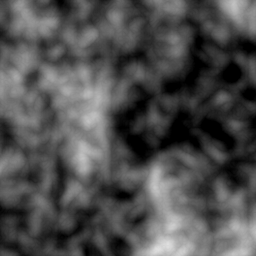
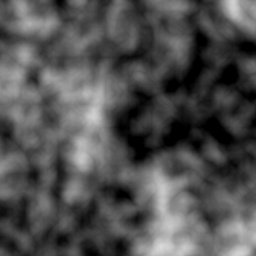
Start adding player and npc stuff

diff --git a/src/game/samake/game/debug/Debug.java b/src/game/samake/game/debug/Debug.java
@@ -64,8 +64,8 @@ public class Debug {
 		DynamicObject object = new DynamicObject();
 		object.setModel(ResourceLoader.load3DModel("sphere.fbx", false));
 		object.setCollissionModel(ResourceLoader.load3DModel("sphereHull.fbx", true));
-		object.getMaterial(0).setShininess(256.0f);
-		object.getMaterial(0).setReflectance(2.0f);
+		object.getMaterial(0).setShininess(128.0f);
+		object.getMaterial(0).setReflectance(1.5f);
 		object.getMaterial(0).setTexture(ResourceLoader.loadTexture("debug\\debug.png", true));
 		object.getMaterial(0).setNormalMap(ResourceLoader.loadTexture("debug\\debug_n.png", true));
 		object.getMaterial(0).setSpecularMap(ResourceLoader.loadTexture("debug\\debug_s.png", true));
@@ -80,8 +80,8 @@ public class Debug {
 		DynamicObject object = new DynamicObject();
 		object.setModel(ResourceLoader.load3DModel("box.fbx", false));
 		object.setCollissionModel(ResourceLoader.load3DModel("boxHull.fbx", true));
-		object.getMaterial(0).setShininess(32.0f);
-		object.getMaterial(0).setReflectance(1.0f);
+		object.getMaterial(0).setShininess(16.0f);
+		object.getMaterial(0).setReflectance(0.4f);
 		object.getMaterial(0).setTexture(ResourceLoader.loadTexture("debug\\debug.png", true));
 		object.getMaterial(0).setNormalMap(ResourceLoader.loadTexture("debug\\debug_n.png", true));
 		object.getMaterial(0).setSpecularMap(ResourceLoader.loadTexture("debug\\debug_s.png", true));
@@ -96,8 +96,8 @@ public class Debug {
 		DynamicObject object = new DynamicObject();
 		object.setModel(ResourceLoader.load3DModel("player.fbx", false));
 		object.setCollissionModel(ResourceLoader.load3DModel("playerHull.fbx", true));
-		object.getMaterial(0).setShininess(128.0f);
-		object.getMaterial(0).setReflectance(3.0f);
+		object.getMaterial(0).setShininess(32.0f);
+		object.getMaterial(0).setReflectance(1.0f);
 		object.getMaterial(0).setTexture(ResourceLoader.loadTexture("debug\\debug.png", true));
 		object.getMaterial(0).setNormalMap(ResourceLoader.loadTexture("debug\\debug_n.png", true));
 		object.getMaterial(0).setSpecularMap(ResourceLoader.loadTexture("debug\\debug_s.png", true));

diff --git a/src/engine/samake/engine/interfaces/IEntity.java b/src/engine/samake/engine/interfaces/IEntity.java
@@ -1,0 +1,33 @@
+package samake.engine.interfaces;
+
+import org.joml.Vector3f;
+
+import samake.engine.material.MaterialWorld;
+import samake.engine.models.Model;
+import samake.engine.physics.bodys.PhysicBody;
+
+public interface IEntity {
+	
+	public void update();
+	public Model getModel();
+	public void setModel(Model model);
+	public Model getCollissionModel();
+	public void setCollissionModel(Model collissionModel);
+	public Vector3f getPosition();
+	public void setPosition(Vector3f position);
+	public Vector3f getRotation();
+	public void setRotation(Vector3f rotation);
+	public float getScale();
+	public void setScale(float scale);
+	public PhysicBody getPhysicBody();
+	public void setPhysicBody(PhysicBody physicBody);
+	public boolean isUpdatedEntity();
+	public void setUpdatedEntity(boolean updatedEntity);
+	public Vector3f getUpdatePosition();
+	public void setUpdatePosition(Vector3f updatePosition);
+	public Vector3f getUpdateRotation();
+	public void setUpdateRotation(Vector3f updateRotation);
+	public MaterialWorld getMaterial();
+	public MaterialWorld getMaterial(int meshSlot);
+	public void destroy();
+}

diff --git a/src/game/samake/game/level/maps/TestMap01.java b/src/game/samake/game/level/maps/TestMap01.java
@@ -32,15 +32,15 @@ public class TestMap01 extends Level {
 		addLight(getEnvironment().getSky().getMoon());
 		
 		PerlinGenerator.setTurbolence(512.0f);
-		PerlinGenerator.setGain(0.45f);
-		PerlinGenerator.setLacunarity(7.5f);
-		PerlinGenerator.setOctaves(8);
+		PerlinGenerator.setGain(0.5f);
+		PerlinGenerator.setLacunarity(5.5f);
+		PerlinGenerator.setOctaves(4);
 		PerlinGenerator.setHeightModifier(128);
 		
 		Terrain terrain = new Terrain();
 		terrain.generateModel(new Vector3f(-512.0f, 0.0f, -512.0f), 256, 1024.0f, true, true);
-		terrain.getMaterial().setShininess(16.0f);
-		terrain.getMaterial().setReflectance(0.8f);
+		terrain.getMaterial().setShininess(8.0f);
+		terrain.getMaterial().setReflectance(0.35f);
 		terrain.getMaterial().setTexture(ResourceLoader.loadTexture("debug\\debug.png", true));
 		terrain.getMaterial().setNormalMap(ResourceLoader.loadTexture("debug\\debug_n.png", true));
 		terrain.getMaterial().setSpecularMap(ResourceLoader.loadTexture("debug\\debug_s.png", true));

diff --git a/src/engine/samake/engine/entity/Entity.java b/src/engine/samake/engine/entity/Entity.java
@@ -2,13 +2,14 @@ package samake.engine.entity;
 
 import org.joml.Vector3f;
 
+import samake.engine.interfaces.IEntity;
 import samake.engine.logging.Console;
 import samake.engine.logging.Console.LOGTYPE;
 import samake.engine.material.MaterialWorld;
 import samake.engine.models.Model;
 import samake.engine.physics.bodys.PhysicBody;
 
-public class Entity {
+public class Entity implements IEntity {
 
 	private Model model;
 	private Model collissionModel;

diff --git a/src/engine/samake/engine/entity/npc/NPC.java b/src/engine/samake/engine/entity/npc/NPC.java
@@ -1,0 +1,22 @@
+package samake.engine.entity.npc;
+
+import samake.engine.entity.Entity;
+
+public class NPC extends Entity {
+
+	public NPC() {
+		
+	}
+	
+	@Override
+	public void update() {
+		super.update();
+		
+	}
+	
+	@Override
+	public void destroy() {
+		super.destroy();
+		
+	}
+}

diff --git a/src/engine/samake/engine/entity/npc/Player.java b/src/engine/samake/engine/entity/npc/Player.java
@@ -1,0 +1,20 @@
+package samake.engine.entity.npc;
+
+public class Player extends NPC {
+
+	public Player() {
+		
+	}
+	
+	@Override
+	public void update() {
+		super.update();
+		
+	}
+	
+	@Override
+	public void destroy() {
+		super.destroy();
+		
+	}
+}
